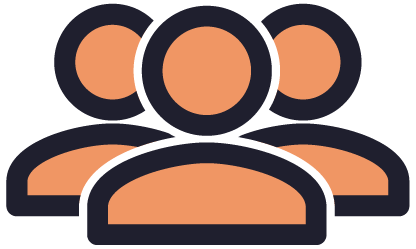
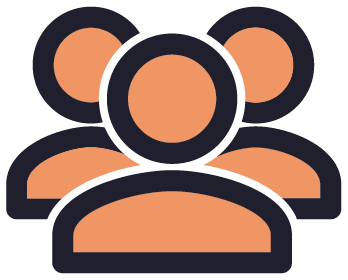
Modification des images et icones de lieux et organisation

diff --git a/public/fonts/Icons/avnu-font/iconly.css b/public/fonts/Icons/avnu-font/iconly.css
@@ -1,0 +1,48 @@
+/*!
+ *  Iconly icon font. Generated by Iconly: https://iconly.io/
+ */
+
+@font-face {
+  font-display: auto;
+  font-family: "Iconly";
+  font-style: normal;
+  font-weight: 400;
+  src: url("./iconly.eot?1700670672180");
+  src: url("./iconly.eot?#iefix") format("embedded-opentype"), url("./iconly.woff2?1700670672180") format("woff2"), url("./iconly.woff?1700670672180") format("woff"), url("./iconly.ttf?1700670672180") format("truetype"), url("./iconly.svg?1700670672180#Iconly") format("svg");
+}
+
+[class="icon"], [class^="icon-"], [class*=" icon-"] {
+  display: inline-block;
+  font-family: "Iconly" !important;
+  font-weight: 400;
+  font-style: normal;
+  font-variant: normal;
+  text-rendering: auto;
+  line-height: 1;
+  -moz-osx-font-smoothing: grayscale;
+  -webkit-font-smoothing: antialiased;
+}
+
+.icon-project_tiny_icon:before {
+  content: "\e000";
+}
+
+.icon-person_tiny_icon:before {
+  content: "\e001";
+}
+
+.icon-icone-lieu:before {
+  content: "\e002";
+}
+
+.icon-event_tiny_icon:before {
+  content: "\e003";
+}
+
+.icon-equipment:before {
+  content: "\e004";
+}
+
+.icon-icone-organisation:before {
+  content: "\e005";
+}

diff --git a/public/fonts/Icons/avnu-font/iconly.min.css b/public/fonts/Icons/avnu-font/iconly.min.css
@@ -1,0 +1,4 @@
+/*!
+ *  Iconly icon font. Generated by Iconly: https://iconly.io/
+ */
+@font-face{font-display:auto;font-family:"Iconly";font-style:normal;font-weight:400;src:url(./iconly.eot?1700670672180);src:url(./iconly.eot?#iefix) format("embedded-opentype"),url(./iconly.woff2?1700670672180) format("woff2"),url(./iconly.woff?1700670672180) format("woff"),url(./iconly.ttf?1700670672180) format("truetype"),url(./iconly.svg?1700670672180#Iconly) format("svg")}[class*=" icon-"],[class=icon],[class^=icon-]{display:inline-block;font-family:"Iconly"!important;font-weight:400;font-style:normal;font-variant:normal;text-rendering:auto;line-height:1;-moz-osx-font-smoothing:grayscale;-webkit-font-smoothing:antialiased}.icon-project_tiny_icon:before{content:"\e000"}.icon-person_tiny_icon:before{content:"\e001"}.icon-icone-lieu:before{content:"\e002"}.icon-event_tiny_icon:before{content:"\e003"}.icon-equipment:before{content:"\e004"}.icon-icone-organisation:before{content:"\e005"}

diff --git a/src/DataTypes/Organisation/models/Organisation.js b/src/DataTypes/Organisation/models/Organisation.js
@@ -25,9 +25,6 @@ class Organisation extends EntityModel {
 
         this.mainImage.src = this.mainImageModel?.src ?? "";
         
-        //Class name of the icon entity
-        this.icon = "icon-organisation_tiny_icon";
-
         //this.taxonomies = new Map();
         //this.taxonomies.set("domains", raw.domains);
         //this.taxonomies.set("skills", raw.skills);
@@ -63,7 +60,7 @@ class Organisation extends EntityModel {
     /****** Static values *********/
 
     //Icon class to represent the type
-    static icon = "icon-organisation_tiny_icon";
+    static icon = "icon-icone-organisation";
 
 }
 

diff --git a/styles/fonts.scss b/styles/fonts.scss
@@ -145,6 +145,8 @@
     -webkit-font-smoothing: antialiased;
 }
 
+
+
 .icon-project_tiny_icon:before {
     content: "\e000";
 }
@@ -153,7 +155,7 @@
     content: "\e001";
 }
 
-.icon-organisation_tiny_icon:before {
+.icon-icone-lieu:before {
     content: "\e002";
 }
 
@@ -163,4 +165,8 @@
 
 .icon-equipment:before {
     content: "\e004";
+}
+
+.icon-icone-organisation:before {
+    content: "\e005";
 }

diff --git a/src/DataTypes/Person/models/Person.js b/src/DataTypes/Person/models/Person.js
@@ -33,9 +33,6 @@ class Person extends EntityModel {
 
         this.type = TYPE_PERSON;
 
-        //Class name of the icon entity
-        this.icon = "icon-person_tiny_icon";
-
         this.meta = {title: this.title, description: this.description, ...raw.meta};
 
         params.showMeta = params.showMeta ?? true;

diff --git a/src/DataTypes/Place/models/Place.js b/src/DataTypes/Place/models/Place.js
@@ -80,6 +80,11 @@ class Place extends EntityModel {
 
     }
 
+    /****** Static values *********/
+
+    //Icon class to represent the type
+    static icon = "icon-icone-lieu";
+
 }
 
 export default Place;
